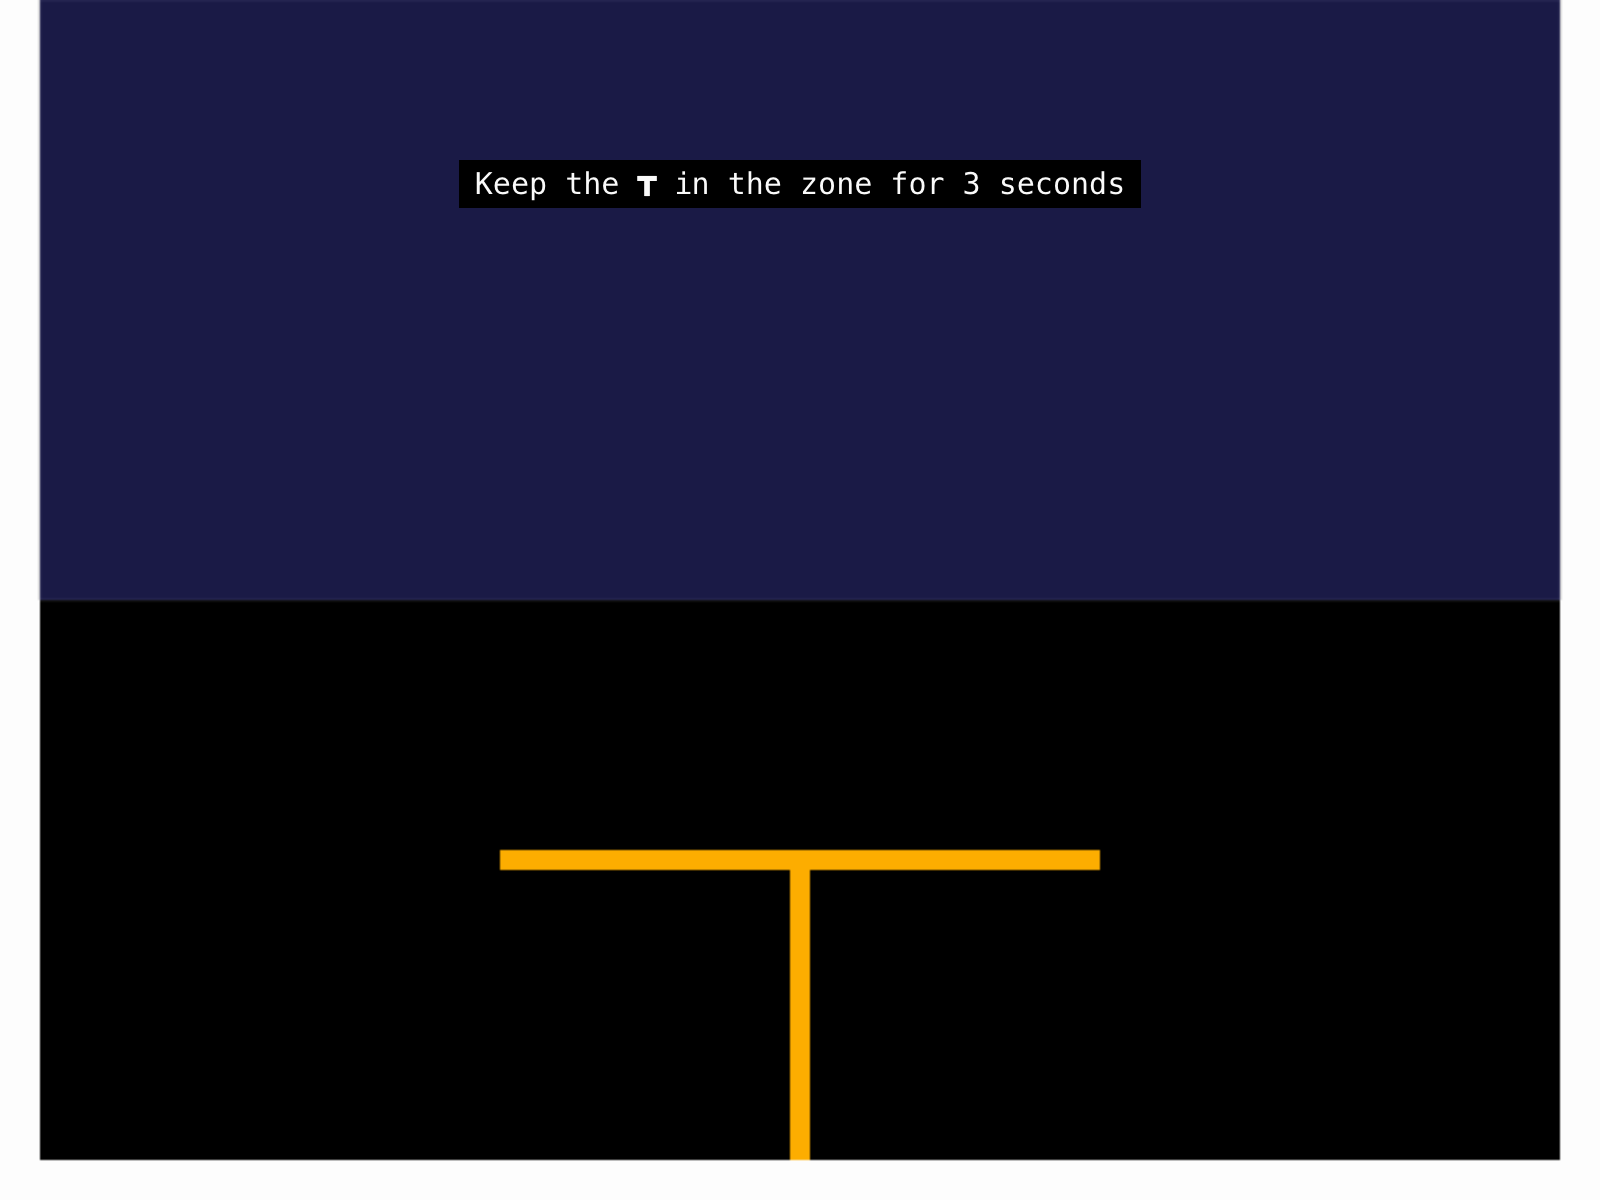
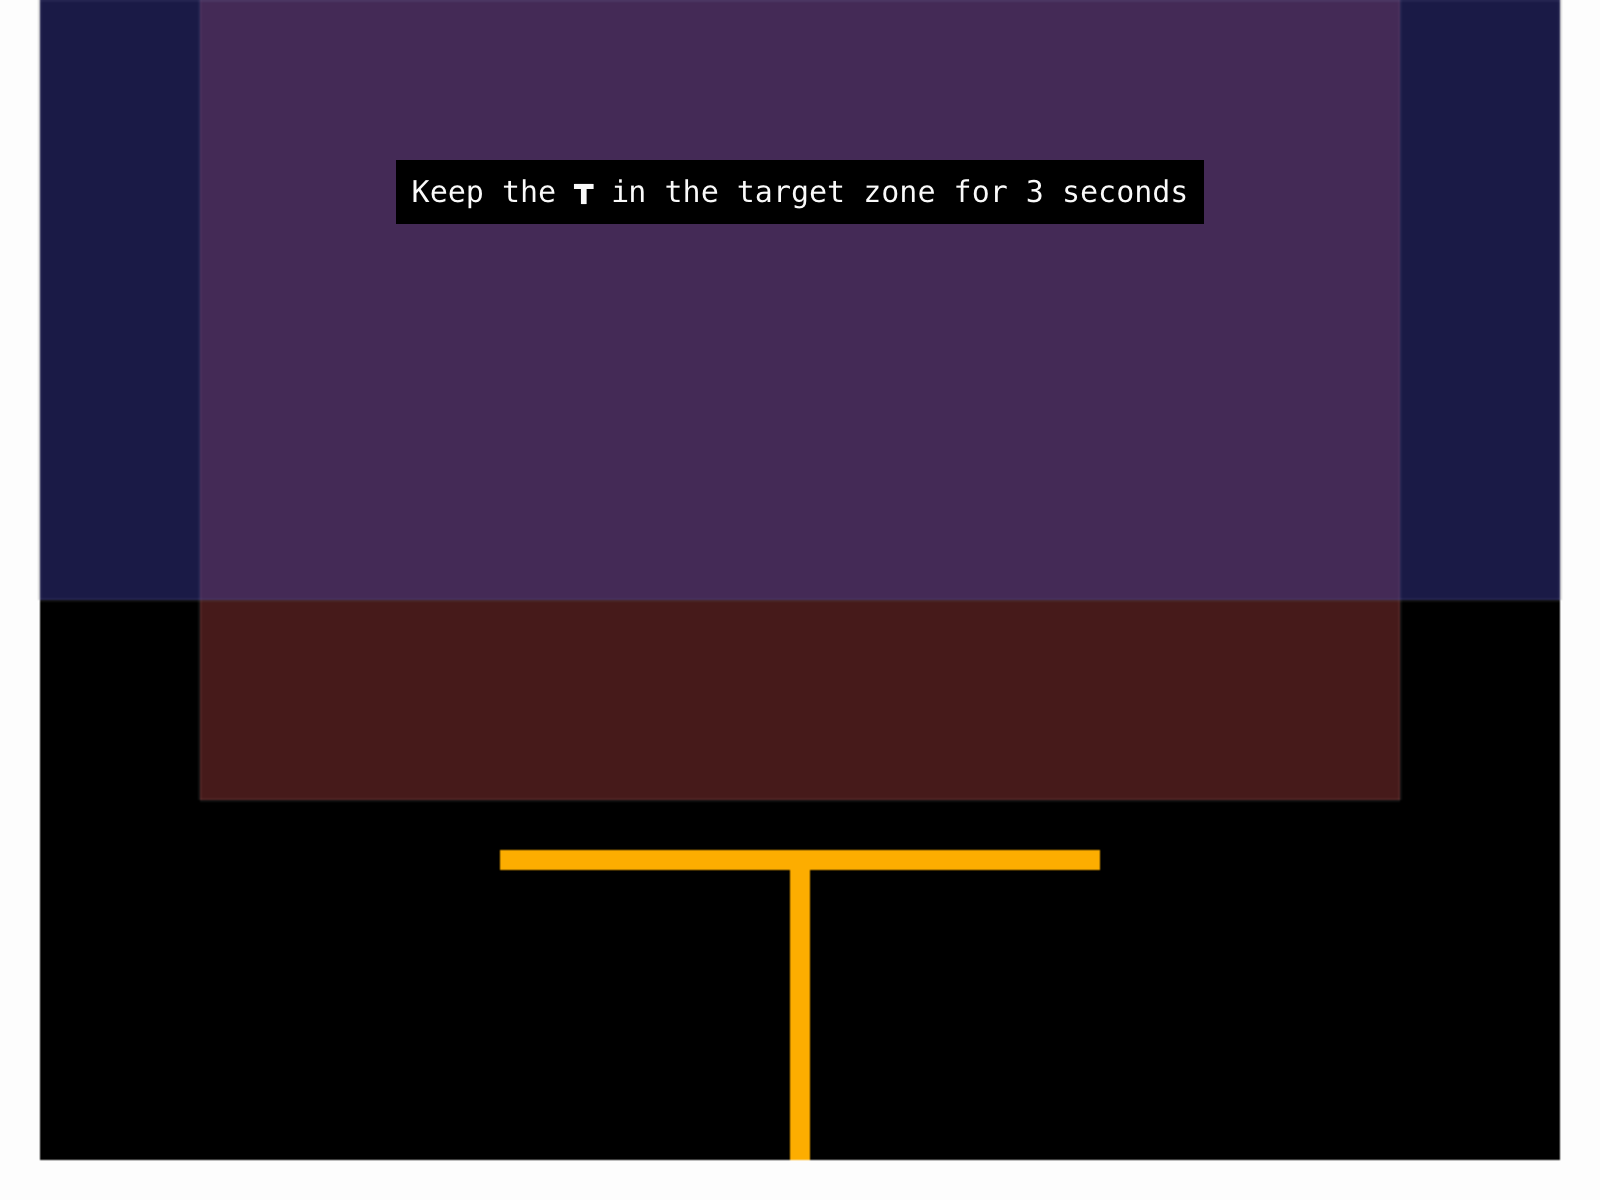
New level

diff --git a/src/ts/draw-mode/levels/bloom/RaiseCorner.ts b/src/ts/draw-mode/levels/bloom/RaiseCorner.ts
@@ -10,11 +10,19 @@ const level: LevelSpec = {
 
     const walls = BodyUtil.wallCup()
 
-    const t = Body.create({
+    const corner = Body.create({
       parts: [
-        Bodies.rectangle(400, 425, 300, 10),
-        Bodies.rectangle(400, 500, 10, 150),
+        Bodies.rectangle(705, 408, 150, 10, {
+          angle: 0.40
+        }),
+        Bodies.rectangle(745, 500, 10, 150, {
+          angle: 0.40
+        }),
       ]
+    })
+
+    const blocker = Bodies.rectangle(590, 150, 20, 300, {
+      isStatic: true
     })
     
     // const windmill = Body.create({
@@ -37,8 +45,19 @@ const level: LevelSpec = {
     //   stiffness: 0.9,
     // })
 
+    const winZone = {
+      body: Bodies.rectangle(690, 100, 180, 200, {
+        isStatic: true,
+        collisionFilter: {
+          mask: 0,
+        }
+      }),
+      color: Color.ZONE,
+      opacity: NO_DRAW_AREA_OPACITY
+    }
+
     const noDraw = {
-      body: Bodies.rectangle(400, 200, 600, 400, {
+      body: Bodies.rectangle(690, 300, 180, 200, {
         isStatic: true,
         collisionFilter: {
           category: 2,
@@ -48,29 +67,19 @@ const level: LevelSpec = {
       color: Color.NO_DRAW,
       opacity: NO_DRAW_AREA_OPACITY
     }
-
-    const winZone = {
-      body: Bodies.rectangle(400, 150, 760, 300, {
-        isStatic: true,
-        collisionFilter: {
-          mask: 0,
-        }
-      }),
-      color: Color.ZONE,
-      opacity: NO_DRAW_AREA_OPACITY
-    }
     
-    EndCondition.onCollisionDuration(engine, t, winZone.body, 3000, onEnd)
+    EndCondition.onCollisionDuration(engine, corner, winZone.body, 3000, onEnd)
 
     return [
       walls,
       noDraw,
+      blocker,
       winZone,
-      { body: t, color: Color.TARGET }
+      { body: corner, color: Color.TARGET }
     ]
   },
-  id: 'RaiseT',
-  text: "<span>Keep the <b style=\"top: -0.25em\">┳</b> in the upper zone for 3 seconds</span>"
+  id: 'RaiseCorner',
+  text: "<span>Keep the <div style=\"transform: rotate(180deg); display: inline-block; font-weight: 1000; font-size: 1.5em; top: 0.1em;\">∟</div> into the upper zone for 3 seconds</span>"
 }
 
 export default level

diff --git a/src/components/draw-mode/LevelPage.vue b/src/components/draw-mode/LevelPage.vue
@@ -36,6 +36,7 @@ import Cannon from '@/ts/draw-mode/levels/bloom/Cannon'
 import CannonBackwards from '@/ts/draw-mode/levels/bloom/CannonBackwards'
 import WedgeFork from '@/ts/draw-mode/levels/bloom/WedgeFork'
 import NoDrawUnderneath from '@/ts/draw-mode/levels/bloom/NoDrawUnderneath'
+import RaiseCorner from '@/ts/draw-mode/levels/bloom/RaiseCorner'
 
 interface Props {
   state: DrawModeState,
@@ -65,7 +66,8 @@ const worlds: WorldData[] = [
     name: 'bloom',
     levelSpecs: [
       Scales, ScalesSwap, ScalesWeight, SlottedWedge, WedgeSandwich, BetweenWedges,
-      RaiseT, SuspendBetweenCliffs, NoDrawUnderneath, CannonHinged, Cannon, CannonBackwards
+      RaiseT, RaiseCorner, SuspendBetweenCliffs, CannonHinged, Cannon, CannonBackwards,
+      NoDrawUnderneath,
     ]
   },
   {
@@ -80,7 +82,7 @@ const worlds: WorldData[] = [
 
 onMounted(() => {
   // Uncomment me during development
-  // emit('input', NoDrawUnderneath)
+  // emit('input', RaiseT)
 })
 
 function hasPageMajority(world: WorldData, page: number): boolean {
